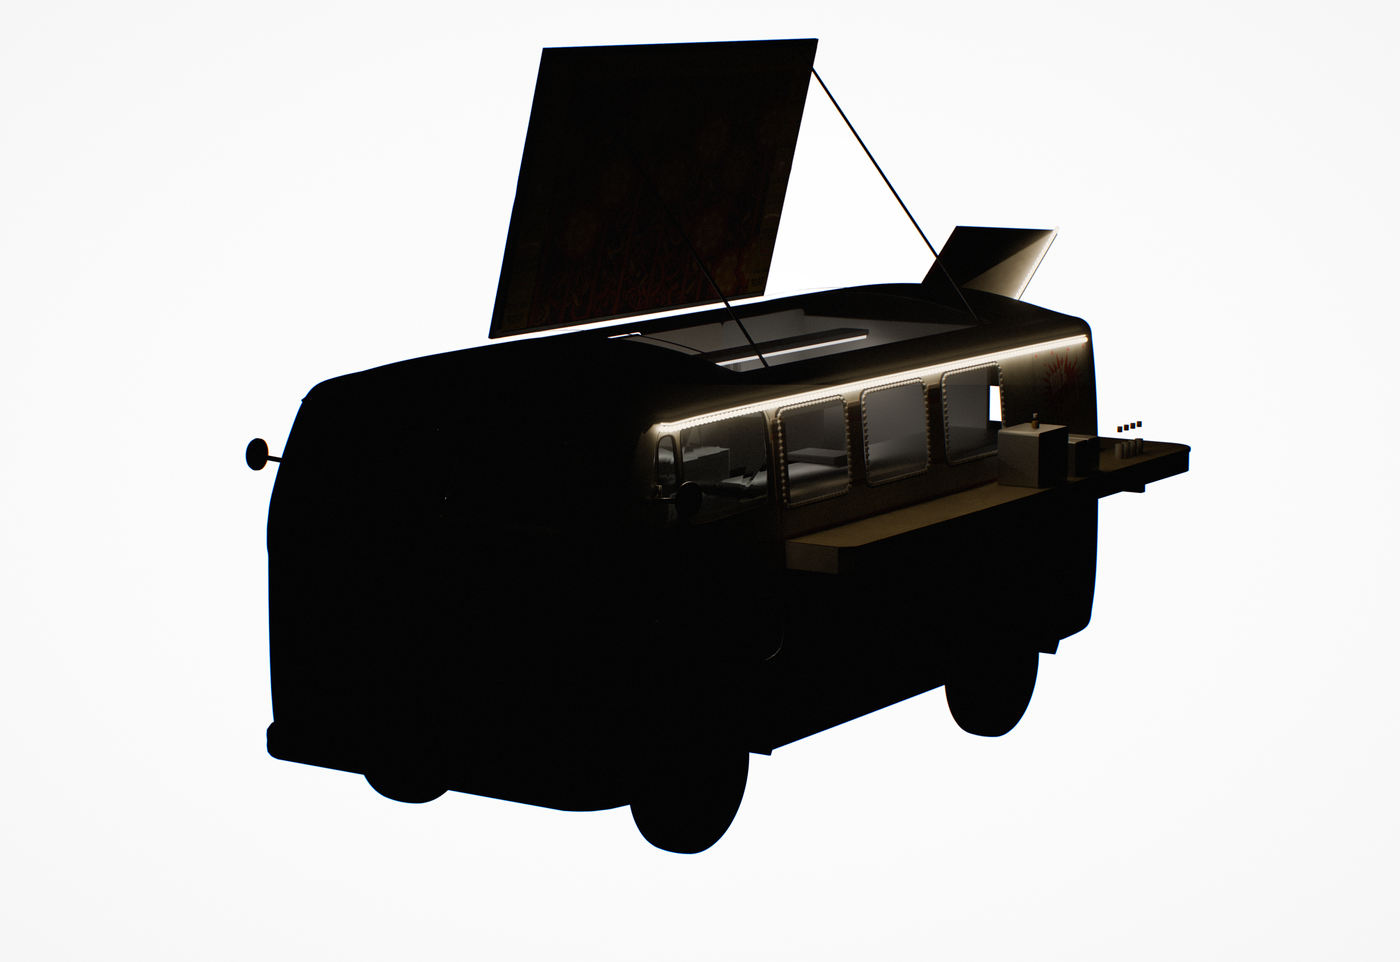
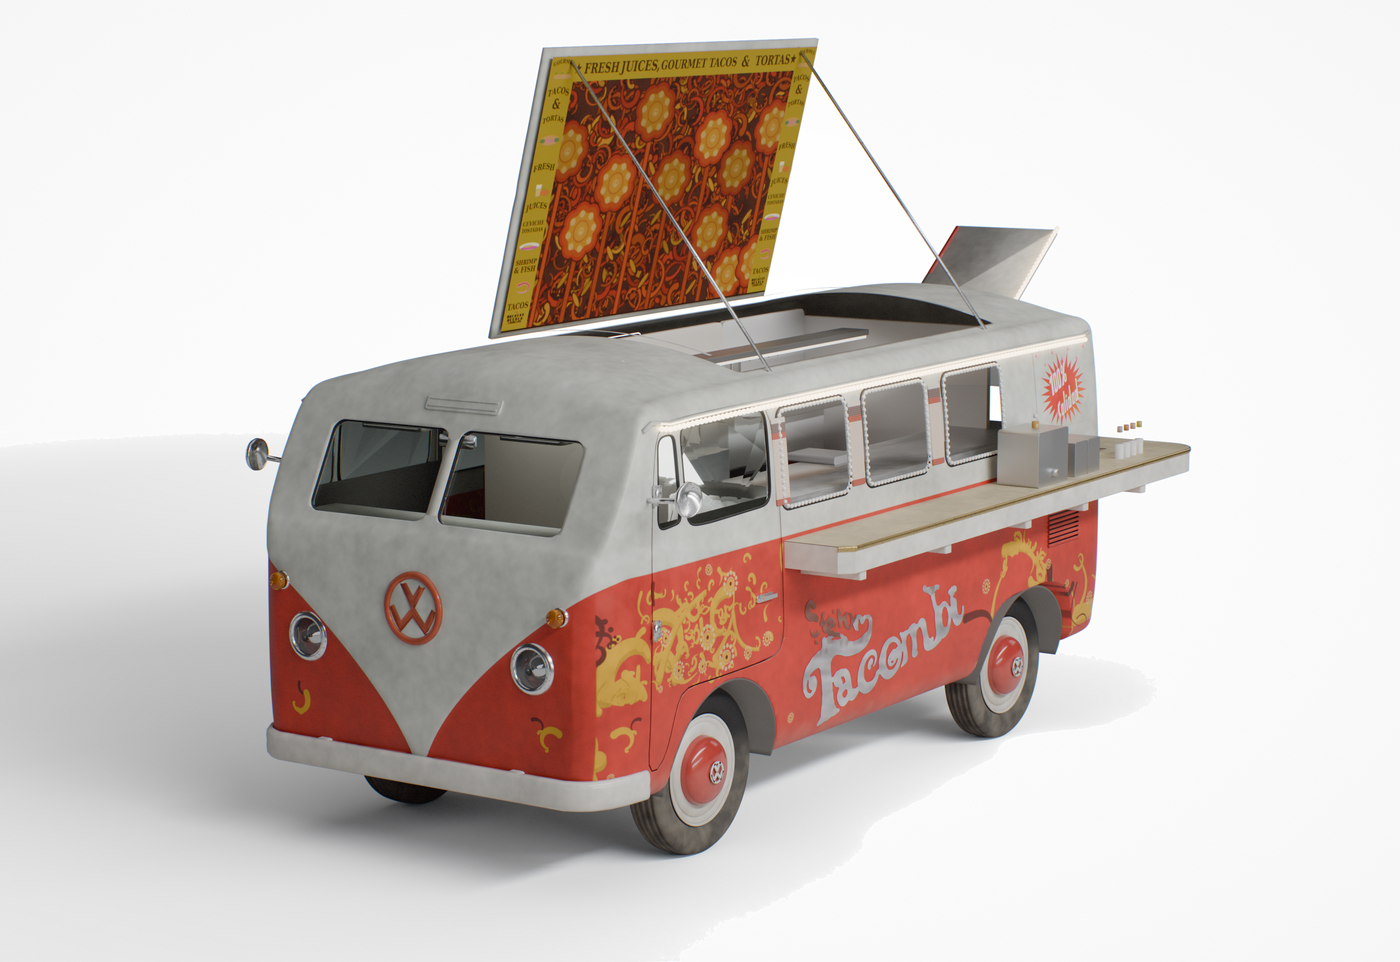
rev 57b: the delivery frame SHIPPED (lit, seam-free), the timings corrected, and F53 found on the gloss probe's first run
THE FRAME.  out/hq_hero.png -- 3840x2640, 256 spp, SUB=2, ten margin'd strips,
stitched at worst seam z = 1.62, posted.  Non-backdrop mean luminance 179.6,
which is the check that mattered after attempt 2.  hq_hero_white.png is the
flat-white variant, hq_hero_raw.png the pre-optics frame.

TIMINGS CORRECTED, all three attempts measured:
  115.2 min  ten processes, LIT, my own analysis running alongside
   39.2 min  one process, UNLIT -- INVALID (F51)
  106.8 min  one process, LIT, machine idle -- SHIPPED
The single-session saving is 506 s = 8.4 min = 7.3 %, against 650 s predicted
from ten repeated 65 s scene builds; the margin eats the rest.  THE 2.94x WAS
ENTIRELY THE MISSING LIGHTS.

AND THE CPU-CONTENTION CLAIM IS WITHDRAWN.  I attributed part of that speedup
to my own analysis stealing cores.  Run 3 was lit and idle and lands 7.3 %
from run 1, which the build overhead alone accounts for -- there is no
contention term left to explain.  Withdrawn rather than kept as a
plausible-sounding aside.  The control I started to test it was killed unrun.

F53, and the probe earned its keep on its FIRST execution: T1_paint's
Roughness socket is LINKED (driven by the WEATHER group), so setting
default_value on it is INERT.  probe_rev58_gloss.py prints
"!! LINKED, so setting default_value is INERT for: Roughness" rather than
letting a flat gate read as "roughness has no effect" -- which is exactly how
rev 57 lost item B.  Coat Weight, Coat Roughness and Specular IOR Level are
[…]

diff --git a/OPEN_FINDINGS.md b/OPEN_FINDINGS.md
@@ -110,6 +110,7 @@ sound, they were merely unverified.*
 | **F50** | **`stitch.py`'s docstring describes a better design than its code implements.** It says *"This does not trust that arithmetic. It measures where each strip actually put its pixels"* — the code appends `"declared"` spans and never measures. **Had it measured, F48 would have surfaced as a coverage assertion naming the strip and the row, instead of as a seam z-score** | **OPEN** | the stated reason for not measuring is sound as far as it goes — a white-composited unrendered region is byte-identical to rendered backdrop, and alpha cannot separate them either (checked: alpha is **uniformly 255**). But an ALL-WHITE ROW is still detectable, and the frame-edge strips are the only ambiguous case | **MEASURED-rev57b** |
 | **F51** | **THE STUDIO RIG IS BUILT ONLY AS A SIDE EFFECT OF ASKING FOR A PREVIEW.** `build.py` calls `ST.cyclorama()`, `ST.lighting()`, `ST.cabin_fill()` and `ST.camera()` **inside** `if os.environ.get("T1_PREVIEW"):`. Anything that execs `build.py` to MEASURE gets a scene with **no lights** | **OPEN — worked around, not fixed.** Two scripts now duplicate the four calls and a verifier row compares the sequences so the duplication cannot rot. **The real fix is to factor them into one function, and it is cheap** | It produced a **BLACK BUS** delivery frame at 3840×2640 that passed **every** automated check: `stitch.py` exited 0, the seam detector read a clean **z = 3.63**, and the job ran **2.94× faster** than the lit one — because an unlit scene is cheap. Non-backdrop mean luminance **5–34 DN** across the strips; strip 0 had **no non-backdrop pixels at all** | **MEASURED-rev57b** |
 | **F52** | **RULE 1 IS THE ONLY THING THAT CAUGHT F51, AND THE AUTOMATED EVIDENCE ALL POINTED THE OTHER WAY.** The seam gate passed, the stitch exited 0, and the timing looked like a triumph | **CLOSED-rev57b as a lesson, recorded so it is not re-learned.** *"Every defect this project has shipped passed `VERIFY: 0 fail, 0 warn` and was found by looking at a crop"* — `verify_clone.sh` says it in its own verdict block, and it was right again | a 2.94× speedup that was a **symptom**, not a win: I formed a CPU-contention hypothesis and started a 20-minute control to test it. **The control would have measured a real contention factor on an unlit scene and confirmed the wrong cause.** Looking at the frame took ten seconds | **MEASURED-rev57b** |
+| **F53** | **`T1_paint`'s `Roughness` socket is LINKED (driven by the WEATHER group), so setting `default_value` on it is INERT.** Item A's most obvious lever cannot be moved the obvious way | **OPEN — and found before it wasted a revision.** `probe_rev58_gloss.py` prints `!! LINKED, so setting default_value is INERT for: Roughness` and refuses to let a flat gate read as "no effect". `Coat Weight`, `Coat Roughness` and `Specular IOR Level` are NOT linked and do move | caught on the probe's **first ever run**. The guard exists because rev 57 lost item B to a lever that was not connected to its gate — rule 36, paying for itself immediately | **MEASURED-rev57b** |
 
 ---
 

diff --git a/AUDIT_rev57_efficiency.md b/AUDIT_rev57_efficiency.md
@@ -157,12 +157,25 @@ rendered this model at delivery quality** — every figure in every ledger comes
 revisions.
 
 So it is running now: **`hero` at 3840×2640, 256 samples, SUB=2, in 10 stitched strips**, then
-`stitch.py`, then `post.py` for the optics. **Strips vary with content — 11.4 min for the ground
-strip, 18.4 for the first body strip.** *(I first wrote "~1 h 50 m" here from ONE strip. That is an
-extrapolation published as a measurement, which is the defect this project punishes, so it is
-corrected here rather than quietly overwritten; the true total is in `LEDGER_rev57.md`.)* It will be
-at **`out/hq_hero.png`** when you wake up, with the raw pre-optics frame beside it at
-`out/hq_hero_raw.png`.
+`stitch.py`, then `post.py` for the optics.
+
+**IT TOOK THREE ATTEMPTS AND THE FIRST TWO ARE THE INTERESTING PART.** Attempt 1 came out with
+**eight white seams** — Blender's border rounds inward, so a row at each boundary was rendered by
+neither strip (F48); `stitch.py` caught it, exited 2, and **my runner ignored the exit code and
+posted anyway** (F49). Attempt 2 fixed the seams and came out a **BLACK BUS** — I had moved the
+render into one Blender session and `build.py` builds the entire lighting rig inside its
+`if T1_PREVIEW:` block, so measuring tools get an unlit scene (F51). **Every automated check passed
+that frame**: stitch exited 0, the seam detector read a clean z = 3.63, and it ran 2.94× faster —
+which I briefly read as the optimisation working. Attempt 3 is lit, seam-free at worst z = 1.62,
+and is what shipped.
+
+**Measured, all three:** 115.2 min (ten processes, lit) → 39.2 min (one process, **unlit, invalid**)
+→ **106.8 min** (one process, lit). **The single-session saving is 8.4 min, 7.3 %** — the 2.94× was
+the missing lights, and the CPU-contention theory I floated for part of it is **withdrawn**: run 3
+was idle and lands 7.3 % from run 1, which the build overhead alone accounts for.
+
+The frame is at **`out/hq_hero.png`**, with `out/hq_hero_white.png` (flat-white backdrop) and
+`out/hq_hero_raw.png` (pre-optics) beside it.
 
 **Set your expectations honestly: it will be the same model, rendered beautifully.** It will be
 sharp, clean and 6.6× the pixels — and it will still be a matte bus in a white room, because §3's

diff --git a/NEXT_CONTEXT_PROMPT_rev58.md b/NEXT_CONTEXT_PROMPT_rev58.md
@@ -467,7 +467,14 @@ ablate first:
 
 1. baseline `gloss_compare.py` on a fresh `hero` — **0.392 today**;
 2. `Coat Weight` 0.02 → 1.0, `Coat Roughness` 0.300 → 0.03 — the clearcoat alone;
-3. and then base `Roughness` 0.420 → ~0.25.
+3. and then base `Roughness` 0.420 → ~0.25 — **but see F53 first.**
+
+**F53, AND IT WILL SAVE YOU A DAY.** `T1_paint`'s **`Roughness` socket is LINKED** — the WEATHER
+group drives it — so setting `default_value` on it does **nothing**. `probe_rev58_gloss.py` detects
+that and says so rather than letting a flat gate read as *"roughness has no effect"*, which is
+exactly how rev 57 lost item B. **`Coat Weight`, `Coat Roughness` and `Specular IOR Level` are not
+linked and do move.** To move roughness you must go through the WEATHER group's own input, not the
+BSDF socket.
 
 **AND THE TRAP, WHICH THE SOURCE ITSELF SETS.** Four lines above those constants:
 *"the red measured sat 0.37 against the reference's 0.82 and read salmon. **Chalky finish restores
@@ -749,7 +756,13 @@ python3 stitch.py out/hq_hero_raw.png 0.0000,0.1000=out/hq0_hero.png ...   # DEC
 python3 post.py out/hq_hero_raw.png out/hq_hero.png   # optics LAST, never per strip
 ```
 
-**THE FIRST ATTEMPT PRODUCED A FRAME WITH EIGHT WHITE LINES ACROSS IT (F48).** Blender's border
+**IT TOOK THREE ATTEMPTS.** 1: **eight white seams** (F48). 2: seams fixed, frame came out a
+**BLACK BUS** because a single-session runner skips `build.py`'s preview block and with it the whole
+lighting rig (**F51**) — and it passed *every* automated check. 3: lit, seam-free at worst
+**z = 1.62**, shipped. **Timings: 115.2 min → 39.2 (unlit, invalid) → 106.8 min.** The
+single-session saving is **8.4 min, 7.3 %**, not the 2.94× the unlit run appeared to show.
+
+**ON THE SEAMS (F48).** Blender's border
 rounds **inward**, so a band declared 0.30..0.40 does not render every row the stitcher then reads
 from it — measured at the hq2/hq3 boundary, row **1849 was rendered by neither strip** and the
 stitcher took a pure-white row 1848 from strip 2. `hq_render.py` fixes it by rendering each band

diff --git a/LEDGER_rev57.md b/LEDGER_rev57.md
@@ -501,3 +501,28 @@ colour**, and colour is the owner's call. Gloss and chroma may trade; measure bo
 * **A suspicion refuted.** The render's nose roundel is body-red and looked wrong to me;
   `ref_nolita_front34.jpg` shows the red bus's own roundel and it **is** body-red. The render is
   right. *A control that finds nothing is still a result.*
+
+### §6.7 THE DELIVERY FRAME — THREE ATTEMPTS, AND THE TIMINGS THAT SETTLE IT
+
+| run | shape | strips total | verdict |
+|---|---|---|---|
+| 1 | ten processes, LIT, my own analysis running alongside | **6914 s = 115.2 min** | **eight white seams** (F48) |
+| 2 | one process, margin — **UNLIT** (F51) | 2354 s = 39.2 min | seam-free and **black**; INVALID |
+| 3 | one process, margin, LIT, machine idle | **6408 s = 106.8 min** | **seam-free, worst z = 1.62. SHIPPED** |
+
+**THE SINGLE-SESSION SAVING IS 506 s = 8.4 min = 7.3 %, not 2.94×.** Predicted from ten repeated
+scene builds at 65 s each: **650 s**; the margin adds render area and eats the difference. So the
+original estimate was right and **the 2.94× was entirely the unlit scene** — the speedup I briefly
+read as the optimisation paying off was the defect announcing itself.
+
+**AND THE CONTENTION HYPOTHESIS IS DEAD TOO.** I attributed part of the 2.94× to my own concurrent
+analysis stealing cores from run 1. Run 3 was LIT and ran on an idle machine and came in at 106.8
+against run 1's 115.2 — **7.3 % apart**, all of which the build overhead accounts for. There is no
+measurable contention term left to explain, so the claim is withdrawn rather than kept as a
+plausible-sounding aside. The 20-minute control I started to test it was killed unrun; it would
+have measured a real factor on an unlit scene and confirmed a cause that does not exist.
+
+**Delivery frame as shipped:** `out/hq_hero.png` (3840×2640, 256 spp, SUB=2, ten margin'd strips,
+`post.py --backdrop headroom`), with `out/hq_hero_white.png` as the flat-white variant and
+`out/hq_hero_raw.png` pre-optics. Non-backdrop mean luminance **179.6** — lit, which is the check
+that mattered.
